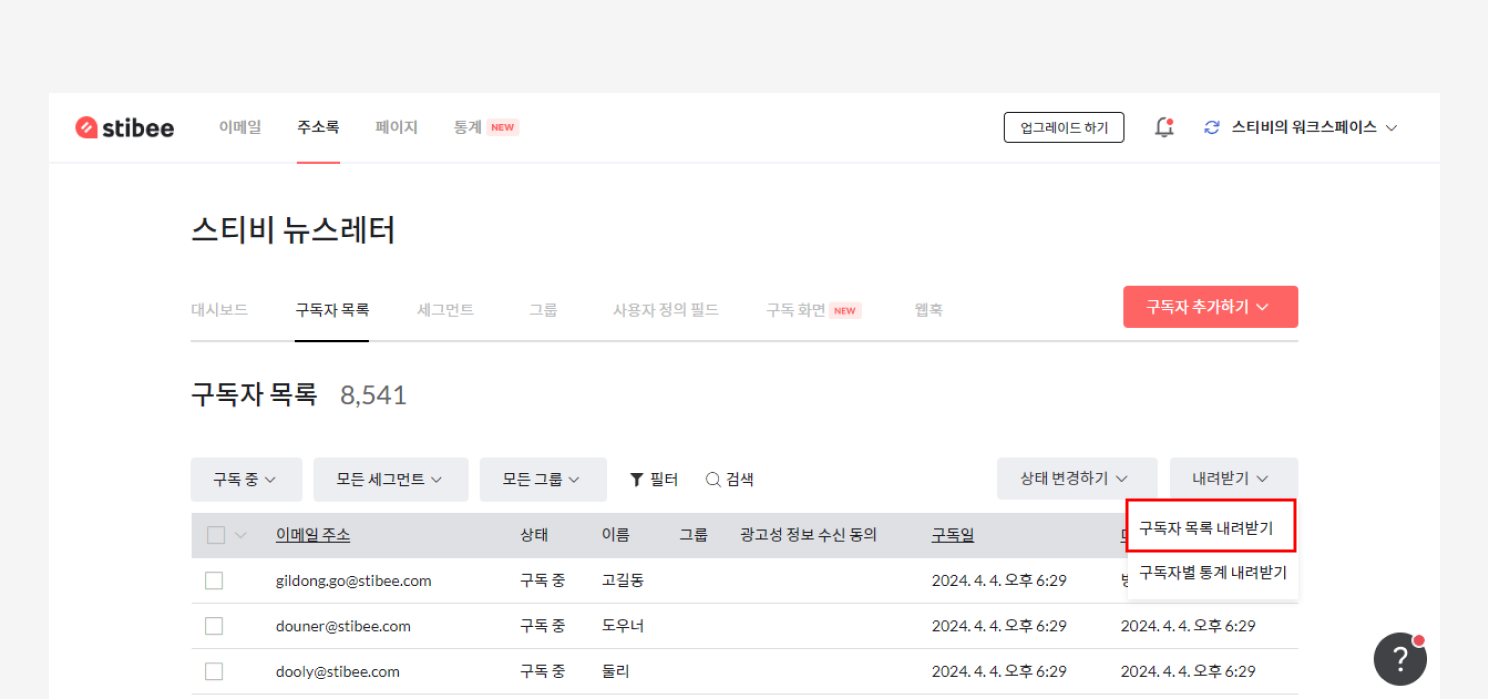
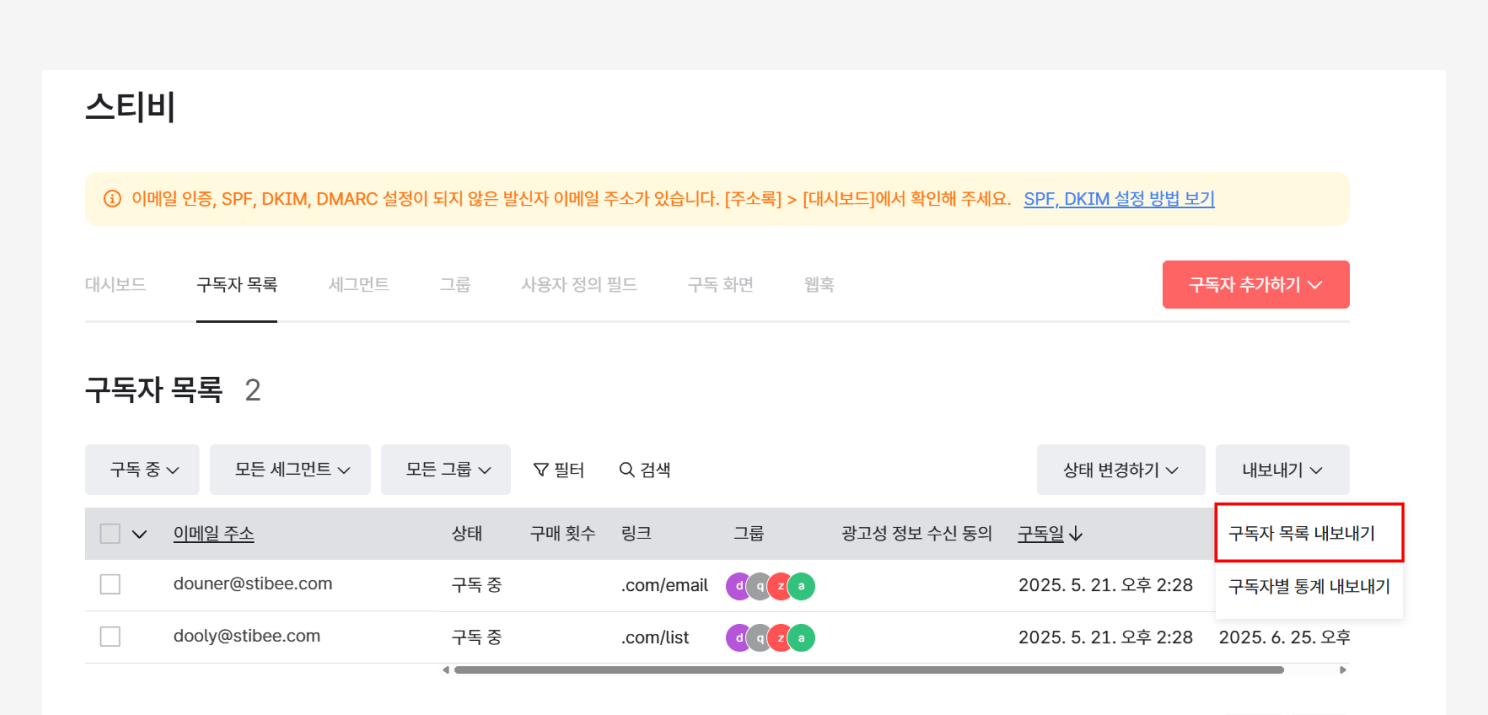
GITBOOK-347: AI로 글쓰기 개선하기, 오탈자 수정

diff --git a/email/edit/using-edit-box/text.md b/email/edit/using-edit-box/text.md
@@ -24,7 +24,7 @@
 
 💬 이 내용은 **스탠다드, 프로, 엔터프라이즈 요금제**에 해당하는 도움말입니다.
 
-작성된 텍스트를 다듬어주는 AI 기능이 베타 테스트 중입니다. 다듬고 싶은 텍스트 영역을 선택한 뒤, \[AI로 글쓰기 개선하기] 아이콘을 누르면 AI가 내용을 다듬어 줍니다.
+작성한 텍스트를 다듬어주는 AI 기능이 베타 테스트 중입니다. 다듬고 싶은 텍스트 영역을 선택한 뒤, \[AI로 글쓰기 개선하기] 아이콘을 누르면 AI가 내용을 다듬어 줍니다.
 
 \[바로 적용하기]를 누르면 다듬어진 내용이 본문에 바로 적용됩니다. \[뒤에 추가하기]를 누르면 기존 내용 뒤에 추가되며, 기존 내용과 한눈에 비교해 볼 수 있어요. 다듬어진 내용이 마음에 들지 않는다면, \[다시 다듬기]를 눌러 새로 요청할 수 있습니다.
 
@@ -60,13 +60,17 @@
 >
 > 링크 단축 서비스를 사용해서 URL을 단축하는 경우, 해당 URL이 포함된 이메일은 스팸으로 분류될 확률이 높아집니다. 되도록 단축 URL 대신 원본 URL을 사용하는 것을 권장합니다.
 
-<figure><img src="../../../.gitbook/assets/image (4) (1) (1).png" alt=""><figcaption></figcaption></figure>
+<figure><img src="../../../.gitbook/assets/링크.png" alt=""><figcaption></figcaption></figure>
 
 ### 텍스트에 메일머지 사용하기 <a href="#h_01ggs5vmyyfnwtazmg7xhvstav" id="h_01ggs5vmyyfnwtazmg7xhvstav"></a>
 
 툴바의 \[메일머지{  }] 버튼을 클릭하면 '주소록 필드', '사용자 정의 필드' 값을 메일머지 형태로 추가할 수 있습니다. 주소록에 입력된 '회사/단체명, 주소, 연락처'를 텍스트 형태로 바로 불러올 수 있으며, 사용자 정의 필드에 입력된 구독자 정보(예: 이름, 별명, 구매 횟수 등)를 불러와 구독자별로 개인화된 이메일을 보낼 수도 있습니다.
 
 메일머지 기능에 관한 자세한 내용은 [personalized-merge.md](../personalized-merge.md "mention") 도움말을 참고해 주세요.
+
+<figure><img src="../../../.gitbook/assets/메일머지.png" alt=""><figcaption></figcaption></figure>
+
+
 
 ### 텍스트 편집 시 주의 사항 <a href="#h_01ggs5vmyyfnwtazmg7xhvstav" id="h_01ggs5vmyyfnwtazmg7xhvstav"></a>
 
@@ -82,6 +86,8 @@
 2. 문제가 발생한 텍스트를 삭제하고 복사한 텍스트를 '서식 없이 붙여넣기(ctrl+shift+v)'로 붙여 넣은 뒤 다시 편집합니다.&#x20;
 3. 문제가 발생한 텍스트 상자를 완전히 삭제하고 새롭게 추가한 뒤 다시 편집합니다. 이때도 텍스트를 붙여 넣는 경우, '서식 없이 붙여넣기(ctrl+shift+v)'를 사용합니다.
 
-위 절차로 처리했지만 계속해서 문제가 발생하는 경우, 화면 오른쪽 아래에 있는 물음표\[?]를 클릭하여 스티비 팀의 도움을 받아보세요.
+<figure><img src="../../../.gitbook/assets/스타일 제거.png" alt=""><figcaption></figcaption></figure>
 
-<figure><img src="../../../.gitbook/assets/image (38) (1).png" alt=""><figcaption></figcaption></figure>
+
+
+위 절차로 처리했지만 계속해서 문제가 발생하는 경우, 화면 오른쪽 아래에 있는 물음표\[?]를 클릭하여 스티비 팀의 도움을 받아보세요.

diff --git a/periodic-statistics/overview.md b/periodic-statistics/overview.md
@@ -6,7 +6,7 @@
 
 스티비에서는 개별 이메일, 구독자, 기간 이렇게 세 가지를 기준으로 한 통계 데이터를 제공하고 있습니다. 이 섹션에서는 '기간'을 기준으로 전체 이메일의 발송 성과와 구독자 증감 현황 등을 확인하는 방법에 관해 알아봅니다.
 
-_개별 이메일의 통계가 궁금하다면_ [_성과 확인하기_](../email/analytics/) _도움말을 참고해 주세요. 구독자별 통계가 궁금하다면_ [_구독자 통계 확인하기_](../list/check-subscriber-statistics/) _도움말을 참고해 주세요._
+_\* 개별 이메일의 통계가 궁금하다면_ [_성과 확인하기_](../email/analytics/) _도움말을 참고해 주세요. 구독자별 통계가 궁금하다면_ [_구독자 통계 확인하기_](../list/check-subscriber-statistics/) _도움말을 참고해 주세요._
 
 ***
 
@@ -18,7 +18,7 @@ _개별 이메일의 통계가 궁금하다면_ [_성과 확인하기_](../email
 
 기간별 통계 기능은 더욱 확장된 기능으로, 전체 이메일에 관한 통계를 시계열 차트로 한눈에 확인할 수 있습니다. 주소록과 태그를 기준으로 기간을 설정해 이메일 통계를 확인할 수 있으며, 여러 지표를 쉽게 이해할 수 있도록 내용을 시각화하여 제공합니다. 또한 최대 24개월까지의 통계 데이터를 제공하므로 더 넓은 기간의 통계 데이터를 확인하는 것도 가능합니다.
 
-개별 이메일에 대한 발송 성과는 \[이메일 → 대시보드 또는 상세 통계]에서 확인할 수 있으며, 구독자에 관한 통계는 \[주소록 → 구독자 목록 → 내려받기 → 구독자별 통계 내려받기]에서 확인할 수 있습니다.
+개별 이메일에 대한 발송 성과는 \[이메일 → 대시보드 또는 상세 통계]에서 확인할 수 있으며, 구독자에 관한 통계는 \[주소록 → 구독자 목록 → 내보내기 → 구독자별 통계 내보내기]에서 확인할 수 있습니다.
 
 
 

diff --git a/user-workspace/security-settings.md b/user-workspace/security-settings.md
@@ -22,7 +22,7 @@
 
 
 
-### 파일 내려받기 사유 입력 <a href="#set-download-reason" id="set-download-reason"></a>
+### 파일 내보내기 사유 입력 <a href="#set-download-reason" id="set-download-reason"></a>
 
 워크스페이스 소유자를 제외한 나머지 사용자가 주소록에서 구독자 목록이나 구독자별 통계를 내보낼 때, 파일을 다운로드하는 사유를 입력하도록 설정할 수 있습니다. 워크스페이스에 추가된 사용자 단위로 기능을 적용하거나 해제할 수 있습니다.
 
@@ -33,7 +33,7 @@ _\* 사용자가 입력한 다운로드 사유는 고객센터(화면 아래 물
 1. 화면 오른쪽 \[워크스페이스 이름]을 클릭합니다.
 2. \[워크스페이스 설정 → 사용자 관리]로 이동합니다.
 3. 제일 오른쪽 더 보기\[···]를 누른 뒤, \[보안 설정 변경하기]를 선택합니다.
-4. 보안 설정 항목에서 \[파일 내려받기 사유 입력 → 변경하기]를 누릅니다. 같은 방법으로 다운로드 시 사유를 입력하는 기능을 해제할 수도 있습니다.
+4. 보안 설정 항목에서 \[파일 내보내기 사유 입력 → 변경하기]를 누릅니다. 같은 방법으로 다운로드 시 사유를 입력하는 기능을 해제할 수도 있습니다.
 
 
 

diff --git a/list/adding-managing-subscriber/manage-unsubscribe.md b/list/adding-managing-subscriber/manage-unsubscribe.md
@@ -58,7 +58,7 @@
 2. \[구독 화면]에서 아래로 내려가면 \[수신거부 화면]이 나타납니다.
 3. \[수신거부 이유 입력받기] 버튼을 클릭해서 기능을 켜거나 끌 수 있습니다.
 
-구독자가 입력한 수신거부 사유는 구독자별 활동 기록 화면에서 확인할 수 있습니다. 또는 \[주소록 → 구독자 목록 → 내려받기]를 통해 내려받은 [구독자 목록](export-list.md)이나 [구독자별 통계](../check-subscriber-statistics/export.md) 파일에서 수신거부 사유를 확인할 수 있습니다.
+구독자가 입력한 수신거부 사유는 구독자별 활동 기록 화면에서 확인할 수 있습니다. 또는 \[주소록 → 구독자 목록 → 내보내기]를 통해 내려받은 [구독자 목록](export-list.md)이나 [구독자별 통계](../check-subscriber-statistics/export.md) 파일에서 수신거부 사유를 확인할 수 있습니다.
 
 <figure><img src="../../.gitbook/assets/2 (6).png" alt=""><figcaption></figcaption></figure>
 

diff --git a/list/adding-managing-subscriber/export-list.md b/list/adding-managing-subscriber/export-list.md
@@ -9,12 +9,14 @@
 주소록에서 구독자 목록을 파일로 내보낼 수 있습니다.&#x20;
 
 1. 구독자 목록을 내려받고 싶은 \[주소록]으로 이동합니다.
-2. \[구독자 목록 → 내려받기 → 구독자 목록 내려받기]를 누릅니다.
+2. \[구독자 목록 → 내보내기 → 구독자 목록 내보내기]를 누릅니다.
 3.  로그인한 이메일 주소로 파일을 내려받을 수 있는 링크가 발송됩니다.
 
     _\* 구독자 목록 파일은 생성일로부터 최대 24시간동안 내려받을 수 있습니다._
 
 <figure><img src="../../.gitbook/assets/구독자 목록 내보내기.png" alt=""><figcaption></figcaption></figure>
+
+
 
 구독자 목록 파일에는 아래 정보가 포함되어 있습니다.
 

diff --git a/periodic-statistics/export.md b/periodic-statistics/export.md
@@ -8,10 +8,10 @@
 
 ***
 
-## 요약 통계 내려받기
+## 요약 통계 내보내기
 
 1. 원하는 기간과 주소록, 태그를 설정한 뒤 \[조회하기]를 누릅니다.
-2. 화면 오른쪽 중앙 \[통계 내려받기]를 누르면, 생성된 파일이 다운로드 됩니다.
+2. 화면 오른쪽 중앙 \[통계 내보내기]를 누르면, 생성된 파일이 다운로드 됩니다.
 
 <figure><img src="../.gitbook/assets/요약 통계 내려받기.png" alt=""><figcaption></figcaption></figure>
 
